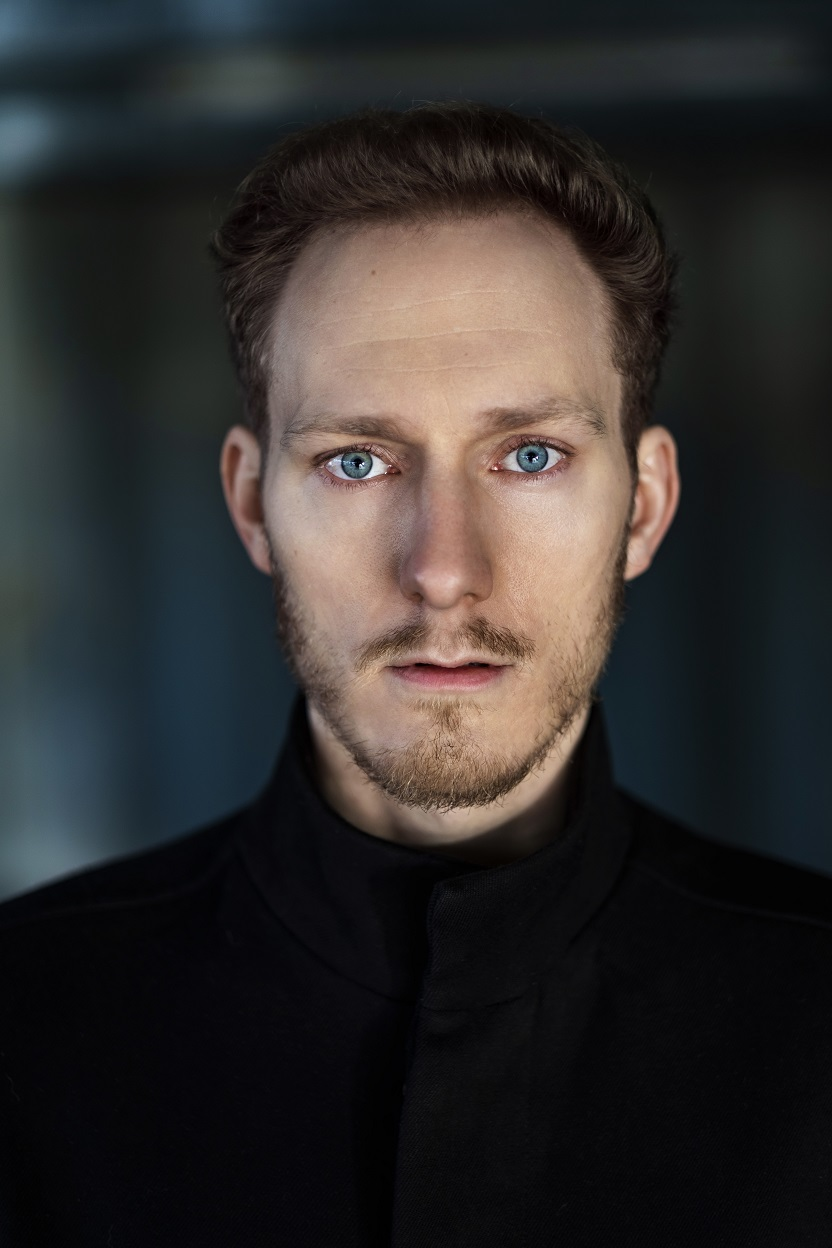
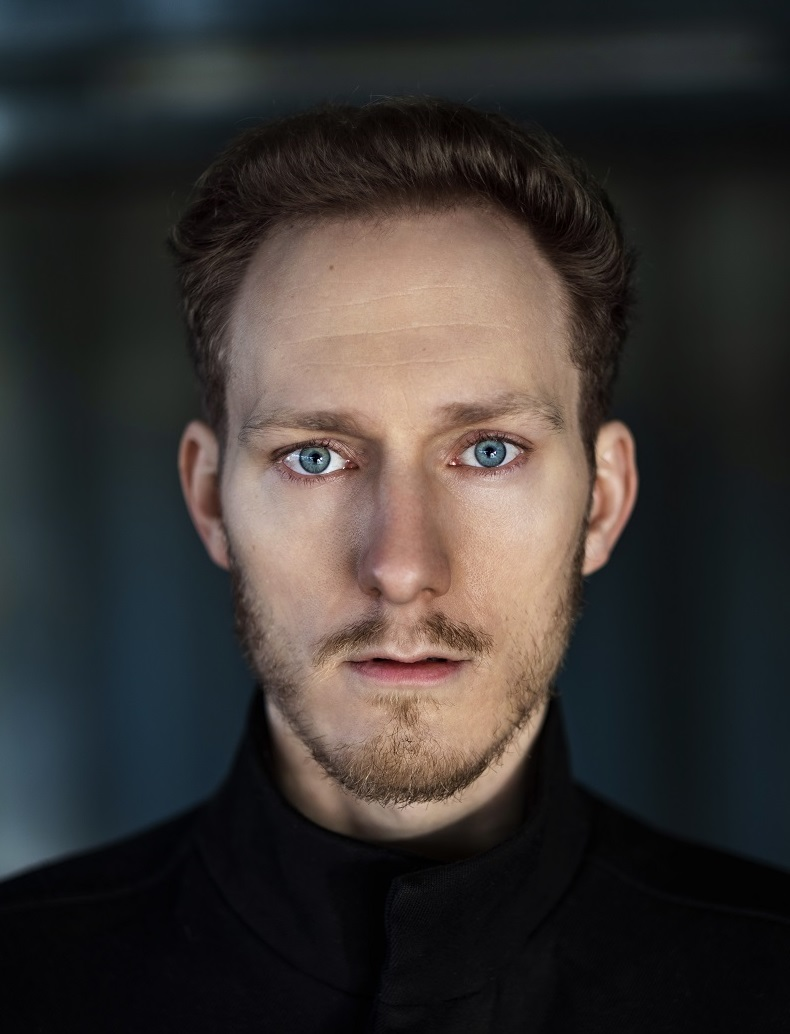
default

diff --git a/src/projects/RandomPhoto.js b/src/projects/RandomPhoto.js
@@ -3,34 +3,34 @@ import { useEffect, useState } from 'react'
 import axios from 'axios'
 
 function RandomPhoto() {
-  const [data, setData] = useState([])
-  const url = `https://gwasteinerts.korconnect.io/Unsplash/`
-  console.log(data)
+  const url = `https://api.unsplash.com/photos/random/?client_id=${process.env.REACT_APP_UNSPLASH_KEY}`
+  const [data, setData] = useState({})
   
-  const getPhoto = () => {
-    axios.get(url,
-      { 
-        headers: { "unsplash-api-key": "NdseUV9CyG4405ZlLoYp36TRHctRvNRJaw7tOmfD" }
-      }
-    )
-    .then(response => {
-      setData(response)
-      console.log(response)
-    })
-    .catch(error => {
-      console.log(error)
-    })
-  }
+  const getPhoto = async () => {
+    await axios
+      .get(url)
+      .then(response => {
+        setData(response.data)
+        setImageUrl(response.data.urls.regular)
+        console.log(response.data)
+      })
+      .catch(error => {
+        console.log(error)
+      })
+    }
+  
+  useEffect(() => {
+    getPhoto()
+  },[])
 
-    useEffect(() => {
-      getPhoto()
-    })
-  
   return (
     <div>
-      <img href={data.links.html} alt={data.alt_description}/>
-      <p>Photo by {data.username} on unsplash.it</p>
+      <img src={data.urls?.regular} />
+      <p>
+        Photo by {data?.user?.username} {data?.user?.name} - found on unsplash
+      </p>
     </div>
   )
 }
+
 export default RandomPhoto

diff --git a/src/projects/Weather.js b/src/projects/Weather.js
@@ -39,17 +39,18 @@ function Weather() {
             placeholder="City"
             onKeyPress={searchLocation}
             />   
+            <p className='photo-info'>Photo by C Dustin @dianamia - unsplash</p>
           </div>
 
           <div className="columns">
             <div className="column">
               <h2>{data.name}</h2>
-              {data.weather ? <p>{data.weather[0].main}</p> : null}
+              {data.weather ? <h3>{data.weather[0].main}</h3> : null}
             </div>
 
             <div className="column">
               {data.main ? <h1>{(data.main.temp)}°C</h1> : null }
-              {data.main ? <p>Feels like {data.main.feels_like} °C</p> : null }
+              {data.main ? <h3>Feels like {data.main.feels_like} °C</h3> : null }
             </div>
           </div>
         </div>

diff --git a/src/sass/layouts/_home.scss b/src/sass/layouts/_home.scss
@@ -11,18 +11,16 @@
   }
   
   .coding {
-    background: url('../../images/Small_squared_Geza_Steinert_2021_072csw.jpg') no-repeat;
+    background: url('../../images/Geza_Steinert_2021_3.jpg') no-repeat;
     background-position: center;
     background-size: cover;
     min-height: 100vh;
-    padding: 4rem;
   }
   
   .acting {
-    background: url('../../images/Small_squared_Geza_Steinert_2021_072csw.jpg') no-repeat;
+    background: url('../../images/Geza_Steinert_2021_1_bw.jpg') no-repeat;
     background-position: center;
     background-size: cover;
     min-height: 100vh;
-    padding: 4rem;
   }
 }

diff --git a/src/Coder.js b/src/Coder.js
@@ -33,10 +33,6 @@ function Coding() {
 
       <div className="container is-fluid">
 
-        <div className='content' >
-          {/* <RandomPhoto />    */}
-        </div>
-
         <div className='content'>
           <BillionBirthday />
         </div>

diff --git a/src/sass/projects/_weather.scss b/src/sass/projects/_weather.scss
@@ -4,8 +4,9 @@
   background: url(../../images/cloud.jpg) no-repeat center center/cover;
   border-radius: .5rem;
   
-  .search {
-    margin-bottom: 1rem;
+  .photo-info {
+    font-size: .7rem;
+    color: $color-white;
   }
   
   .input {
